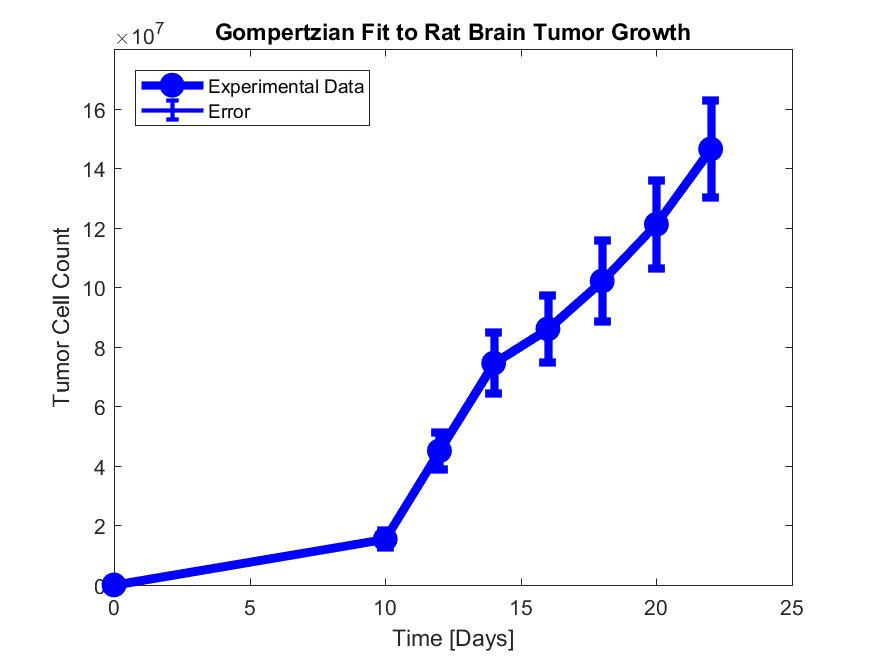
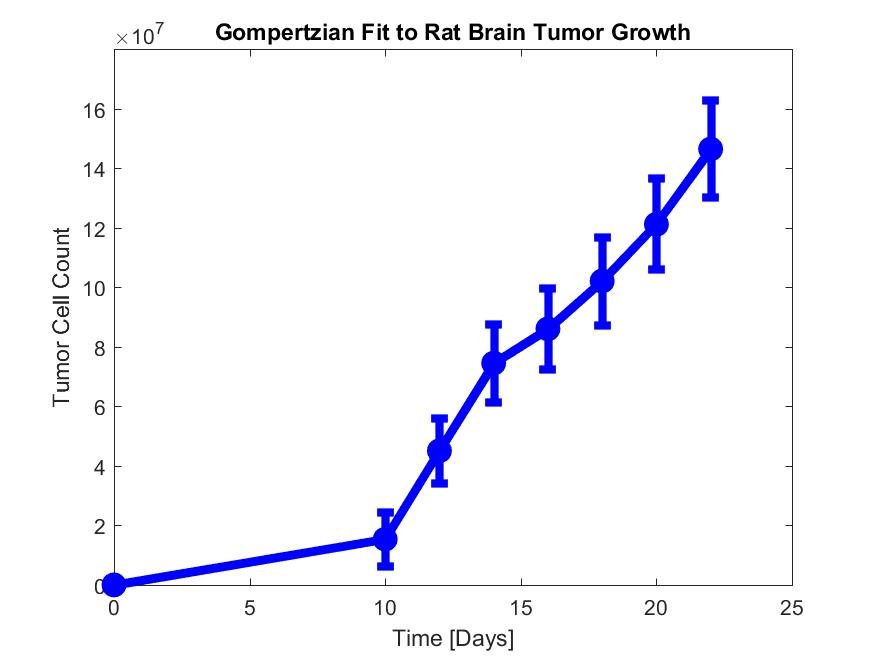
final stuff?

diff --git a/src/gompertzianFit.m b/src/gompertzianFit.m
@@ -14,11 +14,12 @@ function parameters = gompertzianFit(func,x0,t)
                      'fontsize',13 ...
                     );
     title('Gompertzian Fit to Rat''s Brain Tumor Growth');
+    legend('Experimental Data','Error','Gompertzian Fit','Location','northwest')
     filename = sprintf(['gompertzianFit.png']);
     fname = 'C:\Users\alexw\Git\ICP2017F-Final\results';
     saveas(gca, fullfile(fname, filename),'jpeg');
     
-    save('C:\Users\alexw\Git\ICP2017F-Final\results','lambda','mu','sigma')
+    save('C:\Users\alexw\Git\ICP2017F-Final\results\parameters', 'lambda', 'mu','sigma')
 end
 %call like this:
 %gompertzianFit(@getLognormalProb,[10,0.1,1],[0:.1:25])

diff --git a/src/graphofCellCount.m b/src/graphofCellCount.m
@@ -51,7 +51,7 @@ e.LineWidth = 4;
 %gompertzianFit(@getLognormalProb,[10,0.1,1],[0:.1:25])
 
 yticks([0 2e+07 4e+07 6e+07 8e+07 10e+07 12e+07 14e+07 16e+07]);
-legend('Experimental Data','Error','Gompertzian Fit','Location','northwest')
+%legend('Experimental Data','Error','Gompertzian Fit','Location','northwest')
 title('Gompertzian Fit to Rat Brain Tumor Growth');
 xlabel('Time [Days]');
 ylabel('Tumor Cell Count');
